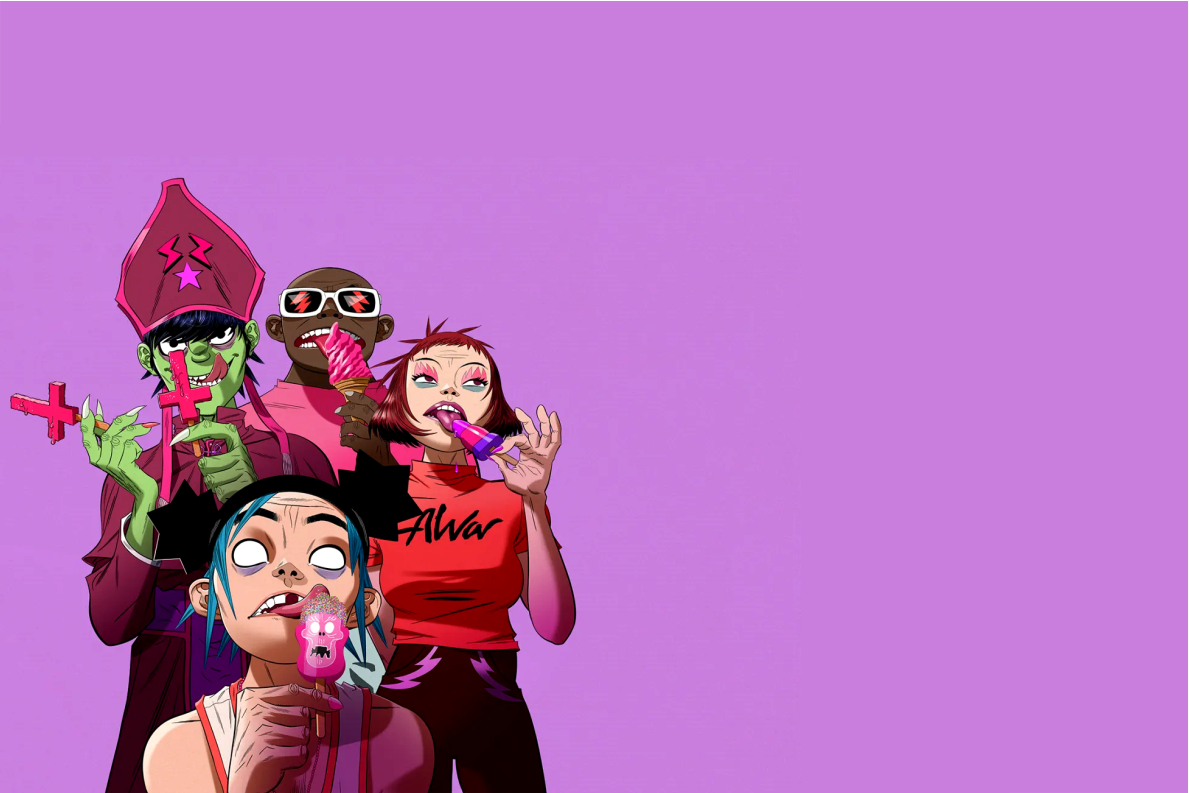
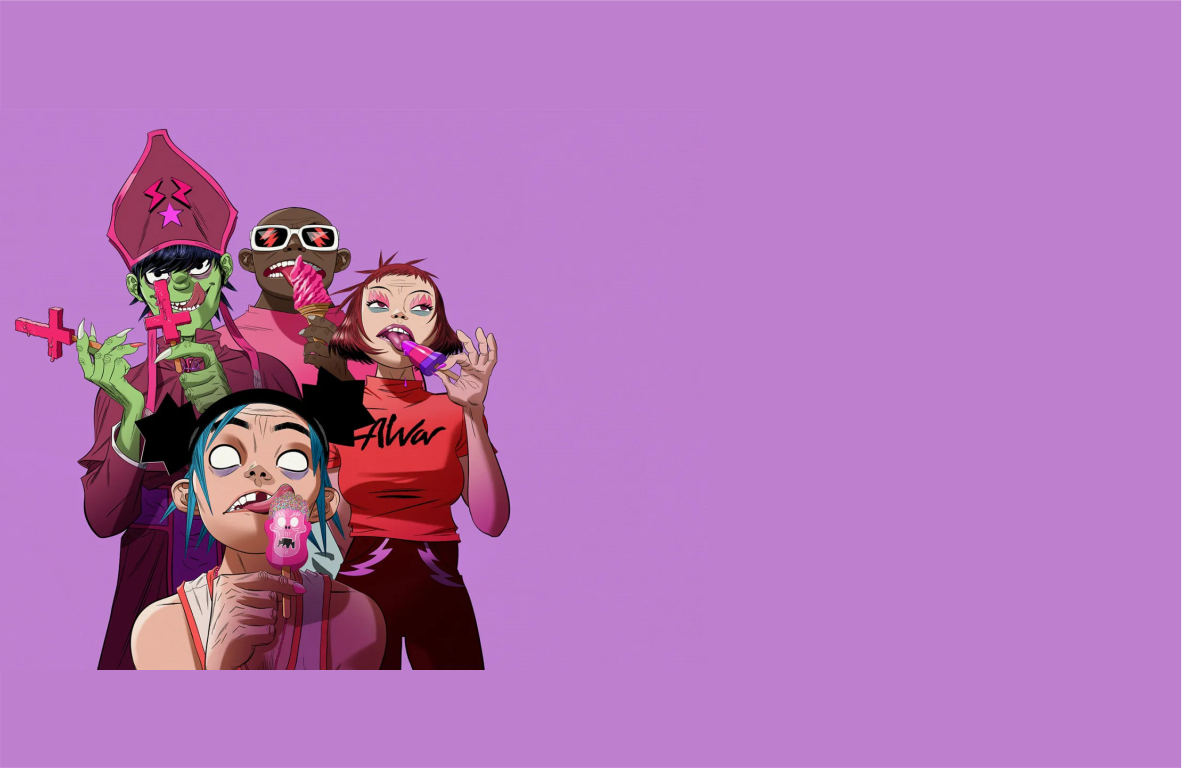
Segunda versão
Criação de mais 4 sections.

Changed region(s): [[0.0, 0.1562, 0.4873, 1.0]]

diff --git a/css/style.css b/css/style.css
@@ -29,6 +29,15 @@
     font-display: swap;
 }
 
+/* Formatação para fonte */
+@font-face {
+    font-family: 'Geom';
+    src: url(../fontes/Gemstone.ttf) format("truetype-variations");
+    font-weight: normal;
+    font-display: swap;
+}
+
+
 /* Formatação do container principal */
 .container {
 	display: flex;
@@ -44,19 +53,18 @@
 /* Formatação da section inicio */
 .inicio{
 	width: 100vw;
-	height: 100vh;
-	background-image: url(../imagens/photo1.png);
+	height: auto;
+    padding: 80px 0px;
+    background-color: rgb(201, 126, 221);
+    background-image: url(../imagens/photo1.png);
 	background-repeat: no-repeat;
 	background-position: center;
-	background-attachment: fixed;
 	background-size: cover;
-    padding: 80px 0px;
-
 }
 
 /* Formatação da div info */
 .info{
-    width: 50vw;
+    width: 60vw;
     height: auto;
     padding: 10px;
     display: block;
@@ -67,9 +75,10 @@
 .info h1{
 	font-family: Gorillaz;
 	font-size: 90pt;
+    font-weight: normal;
 	padding: 10px;
 	color: black;
-    animation: bounceIn;
+    animation: jackInTheBox;
     animation-duration: 3s;
 }
 
@@ -77,9 +86,10 @@
 .info h2{
 	font-family: Adrip;
 	font-size: 50pt;
+    font-weight: normal;
 	padding: 10px;
 	color: black;
-    animation: bounceIn;
+    animation: jackInTheBox;
     animation-duration: 3s;
 }
 
@@ -87,9 +97,10 @@
 .info h3{
 	font-family: Adrip;
 	font-size: 70pt;
+    font-weight: normal;
 	padding: 10px;
 	color: black;
-    animation: bounceIn;
+    animation: jackInTheBox;
     animation-duration: 3s;
 }
 
@@ -104,7 +115,7 @@
     font-size: 30px;
     color: rgb(242, 14, 136);
     animation: bounceIn;
-    animation-duration: 1s;
+    animation-duration: 3s;
 }
 
 /* Formatação do button da div info ao passar o mouse */
@@ -115,4 +126,203 @@
     cursor: pointer;
     animation: pulse;
     animation-duration: 1s;
+}
+
+/* Formatação da section show */
+.show{
+    width: 100vw;
+    padding-top: 100px;
+    background-color: white;
+    margin: 50px 0px;
+}
+
+/* Formatação da div imagem_show*/
+.imagem_show{
+    width: 50vw;
+    height: auto;
+    padding: 10px;
+    display: inline-block;
+}
+
+/* Formatação da div imagem_show*/
+.imagem_show img{
+    width: 400px;
+    height: auto;
+    padding: 2px; 
+}
+
+/* Formatação da div imagem_show*/
+.imagem_show img:hover{
+    animation: pulse;
+    animation-duration: 2s;
+}
+
+/* Formatação da div info_show*/
+.info_show{
+    width: 30vw;
+    height: auto;
+    padding: 10px;
+    display: inline-block;
+}
+
+/* Formatação do h1 da div info_show*/
+.info_show h1{
+    font-family: Geom;
+    font-size: 45pt;
+    color: rgb(242, 14, 136);
+    letter-spacing: 1px;
+    font-weight: normal;
+}
+
+/* Formatação do p da div info_show*/
+.info_show p{
+    font-family: Geo;
+    font-size: 12pt;
+    padding: 25px;
+    color: rgb(242, 14, 136);
+    font-weight: normal;
+    text-align: justify;
+}
+
+/* Formatação da section datas*/
+.datas{
+    width: 100vw;
+    height: 100vh;
+    padding: 100px 0px;
+    margin: 0;
+    background-image: url(../imagens/photo3.png);
+	background-repeat: no-repeat;
+	background-position: center;
+	background-size: cover;
+}
+
+/* Formatação da imagem da section datas*/
+.datas img{
+    width: 500px;
+    height: auto;
+    padding: 20px;
+}
+
+/* Formatação da section tour_dates*/
+.tour_dates{ 
+    width: 100vw;
+    height: 100vh;
+    padding: 10px;
+    margin: 0;
+    background-image: url(../imagens/photo5.png);
+	background-repeat: no-repeat;
+	background-position: center;
+	background-size: cover;
+}
+
+/* Formatação da div tour_dates_info*/
+.tour_dates_info{
+    float: left;
+    width: 60vw;
+    height: auto;
+    padding: 20px;
+    margin: 250px 0px;
+}
+
+
+/* Formatação do h1 da div tour_dates_info*/
+.tour_dates_info h1{
+    font-family: Geom;
+    font-size: 50pt;
+    padding: 10px;
+    color: black;
+    letter-spacing: 1px;
+    font-weight: normal;
+}
+
+
+/* Formatação do button da div tour_dates_info*/
+.tour_dates_info button{
+    width: 300px;
+    height: 70px;
+    border: 5px solid white;
+    margin: 10px 0px;
+    background-color: transparent;
+    font-family: Geo;
+    font-size: 30px;
+    color: white;
+}
+
+
+/* Formatação da div tour_dates_info*/
+.tour_dates_info button:hover{
+    background-color: white;
+    cursor: pointer;
+    color: rgb(242, 14, 136);
+}
+
+/* Formatação da section band*/
+.band{
+    width: 100vw;
+    height: auto;
+    padding: 10px;
+    width: 100vw;
+    height: 100vh;
+    padding: 10px;
+    margin: 0;
+    background-image: url(../imagens/photo6.png);
+	background-repeat: no-repeat;
+	background-position: center;
+	background-size: cover;
+}
+
+/* Formatação do p da section band*/
+.band p{
+    width: 60vw;
+    font-family: Geo;
+    font-size: 25pt;
+    text-align: justify;
+    padding: 20px;
+    margin: 80px 0px;
+    float: left;
+    opacity: 0.3;
+}
+
+/* Formatação ao diminuir a tela para uso mobile*/
+@media only screen and (min-width: 300px) and (max-width: 1000px){
+
+    /* Formatação da section inicio */
+    .inicio{
+        padding: 10px 0px;
+        background-image: url(../imagens/photo1_mobile_2.png);
+        background-position: right;
+    }
+
+    /* Formatação da div info */
+    .info{
+        width: 55vw;
+        padding: 5px;
+    }
+
+    /* Formatação da div imagem_show*/
+    .imagem_show img{
+        width: 300px;
+        height: auto;
+        padding: 2px; 
+    }
+
+        /* Formatação da div info_show*/
+    .info_show{
+        width: 40vw;
+        height: auto;
+        padding: 5px;
+        display: inline-block;
+    }
+    /* Formatação do h1 da div info_show*/
+    .info_show h1{
+        font-size: 30pt;
+        letter-spacing: 1px;
+    }
+
+    /* Formatação do p da div info_show*/
+    .info_show p{
+        font-size: 15pt;
+        padding: 10px;
+    }
+
 }

diff --git a/index.html b/index.html
@@ -21,6 +21,44 @@
                 <button type="button">Check It Out</button>
             </div>
         </section>
+        <section class="show">
+            <div class="imagem_show">
+                <img src="imagens/photo2_2.png">
+            </div>
+            <div class="info_show">
+                <h1 data-aos="flip-left">What to expect from the show?</h1>
+                <p data-aos="flip-right">From the six shows that Gorillaz have
+                    already played in Latin America in recent
+                    weeks, it is possible to get an idea of what
+                    will be presented on the Tour. The
+                    skeleton of the setlist is similar, despite
+                    the space for small new features, as was
+                    the case in Mexico (Saturnz Barz), Chile
+                    (The Pink Phantom), Uruguay (Cracker
+                    Island, Silent Running, Rockit and more).</p>
+            </div>
+        </section>
+        <section class="datas">
+            <img src="imagens/photo4.png"data-aos="zoom-in-up" data-aos-duration="3000">
+        </section>
+        <section class="tour_dates">
+            <div class="tour_dates_info">
+                <h1>Tour Dates and Tickets</h1>
+                <button type="button">Check It Out</button>
+            </div>
+        </section>
+        <section class="band">
+            <p>The band is made up of four lively
+                members: 2-D, Murdoc, Noodle and
+                Russell. The group's music is the
+                result of collaboration between several
+                other musicians, with Damon Albarn
+                being the only permanent member.
+                Their musical style is typically
+                classified as alternative rock, although
+                there is a lot of influence from Britpop,
+                dub and electronica.</p>
+        </section>
         <footer id="rodape">
             Coded by <a class="link" href="https://github.com/AndreViniciusSG" target="_blank">André Vinícius Santos Guajajara</a>
         </footer>
